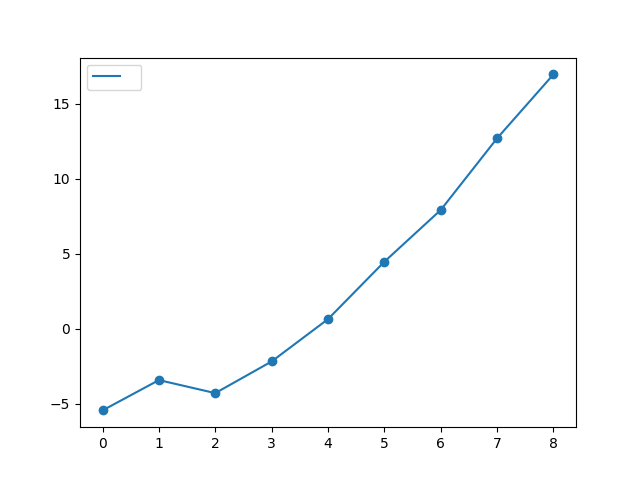
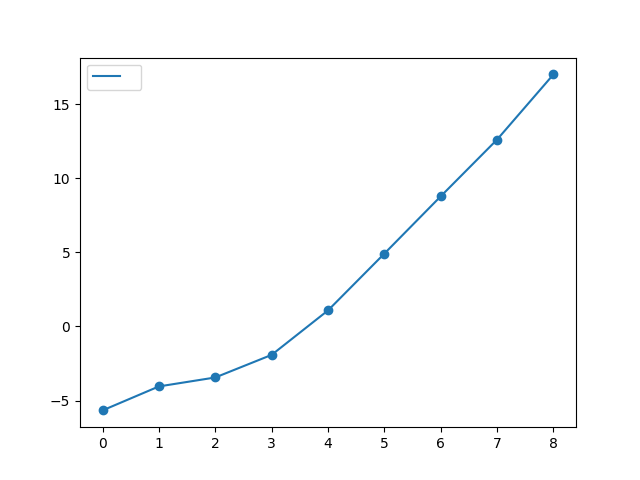
rerun

diff --git a/main.py b/main.py
@@ -74,7 +74,7 @@ def run_ls_W2_10_M80_Na1():
 
 def run_gs_W2_10_M80_Na1():#TODO
     reslist = np.zeros(9)
-    for time in range(20):
+    for time in range(200):
         print(time)
         for n in range(2, 11):
             reslist[n - 2] += (
@@ -87,7 +87,7 @@ def run_gs_W2_10_M80_Na1():#TODO
                     scheme="g",
                     qU=qU,
                 )
-                / 20
+                / 200
             )
     np.save("./output/gs_W2_10_M80_Na1_iid200", reslist)
     draw_n(reslist, range(9))
